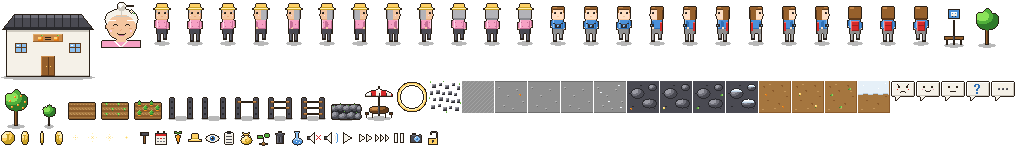
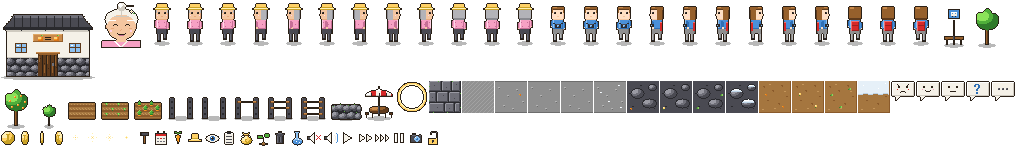
fix(assets): 올렛길·창고 제주 느낌 보강

Changed region(s): [[0.4062, 0.5479, 0.4688, 0.7945], [0.0, 0.3562, 0.0938, 0.5205]]

diff --git a/tools/assets/sprites_objects.py b/tools/assets/sprites_objects.py
@@ -105,25 +105,55 @@ def warehouse() -> Canvas:
     c = canvas(96, 80, shadow_rx=47, shadow_ry=3)
     wdk, wmd, wlt = WHITE
     bdk, bmd, blt = BASALT
-    # 벽
+    # 벽: 위 회벽, 아래 40%는 현무암 돌담
     c.rect(6, 30, 84, 47, wmd)
-    c.vline(6, 30, 76, wlt)
-    c.vline(89, 30, 76, wdk)
-    c.rect(6, 75, 84, 2, wdk)
+    c.vline(6, 30, 57, wlt)
+    c.vline(89, 30, 57, wdk)
     c.hline(6, 89, 30, wdk); c.hline(6, 89, 31, wdk)          # 처마 그림자
-    # 슬레이트 지붕(사다리꼴, 좌우 4px 넘침)
+    c.rect(6, 58, 84, 19, bdk)                                # 모르타르
+    c.hline(6, 89, 57, wdk)
+    rows = [(61, [(9, 5, 3.2), (20, 4.5, 3), (30, 5, 3.2), (40, 4.2, 2.8), (50, 5, 3), (60, 4.5, 3.2),
+                  (70, 5, 3), (80, 4.5, 3.2), (88, 3, 2.8)]),
+            (68, [(7, 3.5, 3), (15, 5, 3.2), (25, 4.5, 3), (35, 5, 3.2), (45, 4.2, 3), (55, 5, 3.2),
+                  (65, 4.5, 3), (75, 5, 3.2), (85, 4.5, 3)]),
+            (74, [(10, 5, 2.8), (20, 4.5, 2.6), (30, 5, 2.8), (40, 4.2, 2.6), (50, 5, 2.8), (60, 4.5, 2.6),
+                  (70, 5, 2.8), (80, 4.5, 2.6), (88, 3, 2.6)])]
+    tmp = Canvas(96, 80)                                      # 벽 범위로 클리핑해서 옮김
+    for cy, stones in rows:
+        for cx, rx, ry in stones:
+            stone(tmp, cx, cy, rx, ry)
+    for y in range(58, 77):
+        for x in range(6, 90):
+            if tmp.px[y][x][3]:
+                c.put(x, y, tmp.px[y][x])
+    c.hline(6, 89, 76, bdk)
+    # 슬레이트 지붕(사다리꼴, 좌우 4px 넘침, 가장자리 1px 들쭉날쭉)
+    jag = {16: 1, 20: -1, 23: 1, 27: 1}
     for y in range(14, 30):
         t = (y - 14) / 15
-        x0 = round(14 - 12 * t); x1 = round(81 + 12 * t)
+        j = jag.get(y, 0)
+        x0 = round(14 - 12 * t) - j; x1 = round(81 + 12 * t) + j
         col = blt if y < 18 else bmd if y < 27 else bdk
         c.hline(x0, x1, y, col)
     for x in range(14, 82, 8):
-        c.vline(x, 15, 28, bdk)
-    c.hline(14, 81, 14, blt)
-    # 문 14×20
-    c.shade_rect(41, 56, 14, 20, WOOD)
-    c.vline(48, 57, 74, WOOD[0])
-    c.put(46, 66, YELLOW[1]); c.put(50, 66, YELLOW[1])       # 손잡이
+        c.vline(x, 16, 28, bdk)
+    c.rect(13, 14, 70, 2, blt); c.hline(14, 81, 14, hexc('8a8a94'))     # 용마루 하이라이트 2px
+    for x in (5, 21, 45, 63, 88):                                     # 처마 끝 낡은 슬레이트 1px 단
+        c.put(x, 30, bdk)
+    c.put(2, 29, (0, 0, 0, 0)); c.put(93, 29, (0, 0, 0, 0))
+    # 미닫이 문 20×22: 낡은 어두운 나무, 세로 판자
+    c.rect(36, 52, 24, 2, WOOD[1]); c.hline(36, 59, 52, WOOD[2])      # 위 레일
+    c.rect(38, 54, 20, 22, WOOD[0])
+    for i, x in enumerate(range(38, 58, 4)):
+        c.vline(x, 54, 75, OUT if i else WOOD[0])
+        if i % 2 == 0:
+            c.vline(x + 1, 56, 61 + i, WOOD[1])
+        else:
+            c.vline(x + 2, 65, 72, WOOD[1])
+        c.put(x + 2, 58 + (i * 5) % 11, hexc('3f2712'))   # 옹이·비바람 자국
+    c.vline(57, 54, 75, OUT)
+    c.rect(52, 63, 2, 3, BASALT[2])                                   # 손잡이 홈
+    c.hline(39, 56, 54, WOOD[1])
     # 창 2개 10×8 + 창틀
     for wx in (16, 70):
         c.rect(wx - 1, 43, 12, 10, WOOD[0])
@@ -159,19 +189,33 @@ def gate(bars: int) -> Canvas:
 
 # ---------------------------------------------------------------- 올렛길
 def path() -> Canvas:
+    """현무암 판석 포장. 판석 사이 1px 모르타르, 오른쪽·아래 끝 열/행이 모르타르라 4방향 이어 붙여도 이음새가 같다.
+    외곽선 없음."""
     c = Canvas(32, 32)
-    dk, md, lt = BASALT[1], BASALT[2], hexc('9a9aa3')
-    pebbles = [(3, 3, 4, 3), (10, 2, 3, 2), (16, 4, 4, 3), (23, 2, 3, 2), (28, 5, 3, 3),
-               (1, 10, 3, 3), (7, 9, 4, 3), (13, 11, 3, 2), (19, 10, 4, 3), (25, 12, 3, 2),
-               (4, 17, 3, 2), (10, 16, 4, 3), (17, 17, 3, 3), (22, 19, 4, 2), (28, 18, 3, 3),
-               (2, 24, 4, 3), (9, 23, 3, 2), (14, 26, 4, 3), (20, 25, 3, 2), (26, 26, 4, 3)]
-    for x, y, w, h in pebbles:
-        c.rect(x, y, w, h, md)
-        c.hline(x, x + w - 2, y, lt); c.put(x, y + 1, lt)
-        c.hline(x + 1, x + w - 1, y + h - 1, dk); c.put(x + w - 1, y + h - 2, dk)
-        c.hline(x, x + w - 1, y + h, BASALT[0])   # 아래 그늘 1px
-    for x, y in [(1, 1), (30, 3), (0, 17), (31, 22), (14, 0), (17, 31)]:
-        c.put(x, y, GRASS[1]); c.put(x, y - 1, GRASS[2])
+    base = hexc('5b5b63')
+    mortar, body, shade, hi = BASALT[0], BASALT[2], BASALT[1], hexc('9a9aa3')
+    c.rect(0, 0, 32, 32, base)
+    c.hline(0, 31, 31, mortar); c.vline(31, 0, 31, mortar)
+    # (y0, y1, [(x0, x1), ...]) — 띠마다 판석 경계를 어긋나게
+    bands = [(0, 9, [(0, 11), (13, 21), (23, 30)]),
+             (11, 20, [(0, 6), (8, 18), (20, 30)]),
+             (22, 30, [(0, 14), (16, 24), (26, 30)])]
+    for y0, y1, cols in bands:
+        c.hline(0, 30, y1 + 1, mortar) if y1 + 1 < 31 else None
+        for x0, x1 in cols:
+            if x1 + 1 < 31:
+                c.vline(x1 + 1, y0, y1, mortar)
+            c.rect(x0, y0, x1 - x0 + 1, y1 - y0 + 1, body)
+            c.hline(x0, x1 - 1, y0, hi); c.vline(x0, y0, y1 - 1, hi)
+            c.hline(x0 + 1, x1, y1, shade); c.vline(x1, y0 + 1, y1, shade)
+            for cx, cy in ((x0, y0), (x1, y0), (x0, y1), (x1, y1)):   # 둥근 모서리에 바탕이 비침
+                c.put(cx, cy, base)
+    # 자잘한 흠집
+    for x, y in ((5, 4), (17, 6), (27, 3), (3, 16), (14, 14), (25, 17), (8, 26), (20, 27)):
+        c.put(x, y, shade)
+    # 가장자리 풀(바깥 테두리 픽셀에만)
+    for x, y in ((0, 5), (0, 19), (31, 12), (31, 26), (9, 0), (23, 0), (4, 31), (18, 31)):
+        c.put(x, y, GRASS[1])
     return c
 
 
